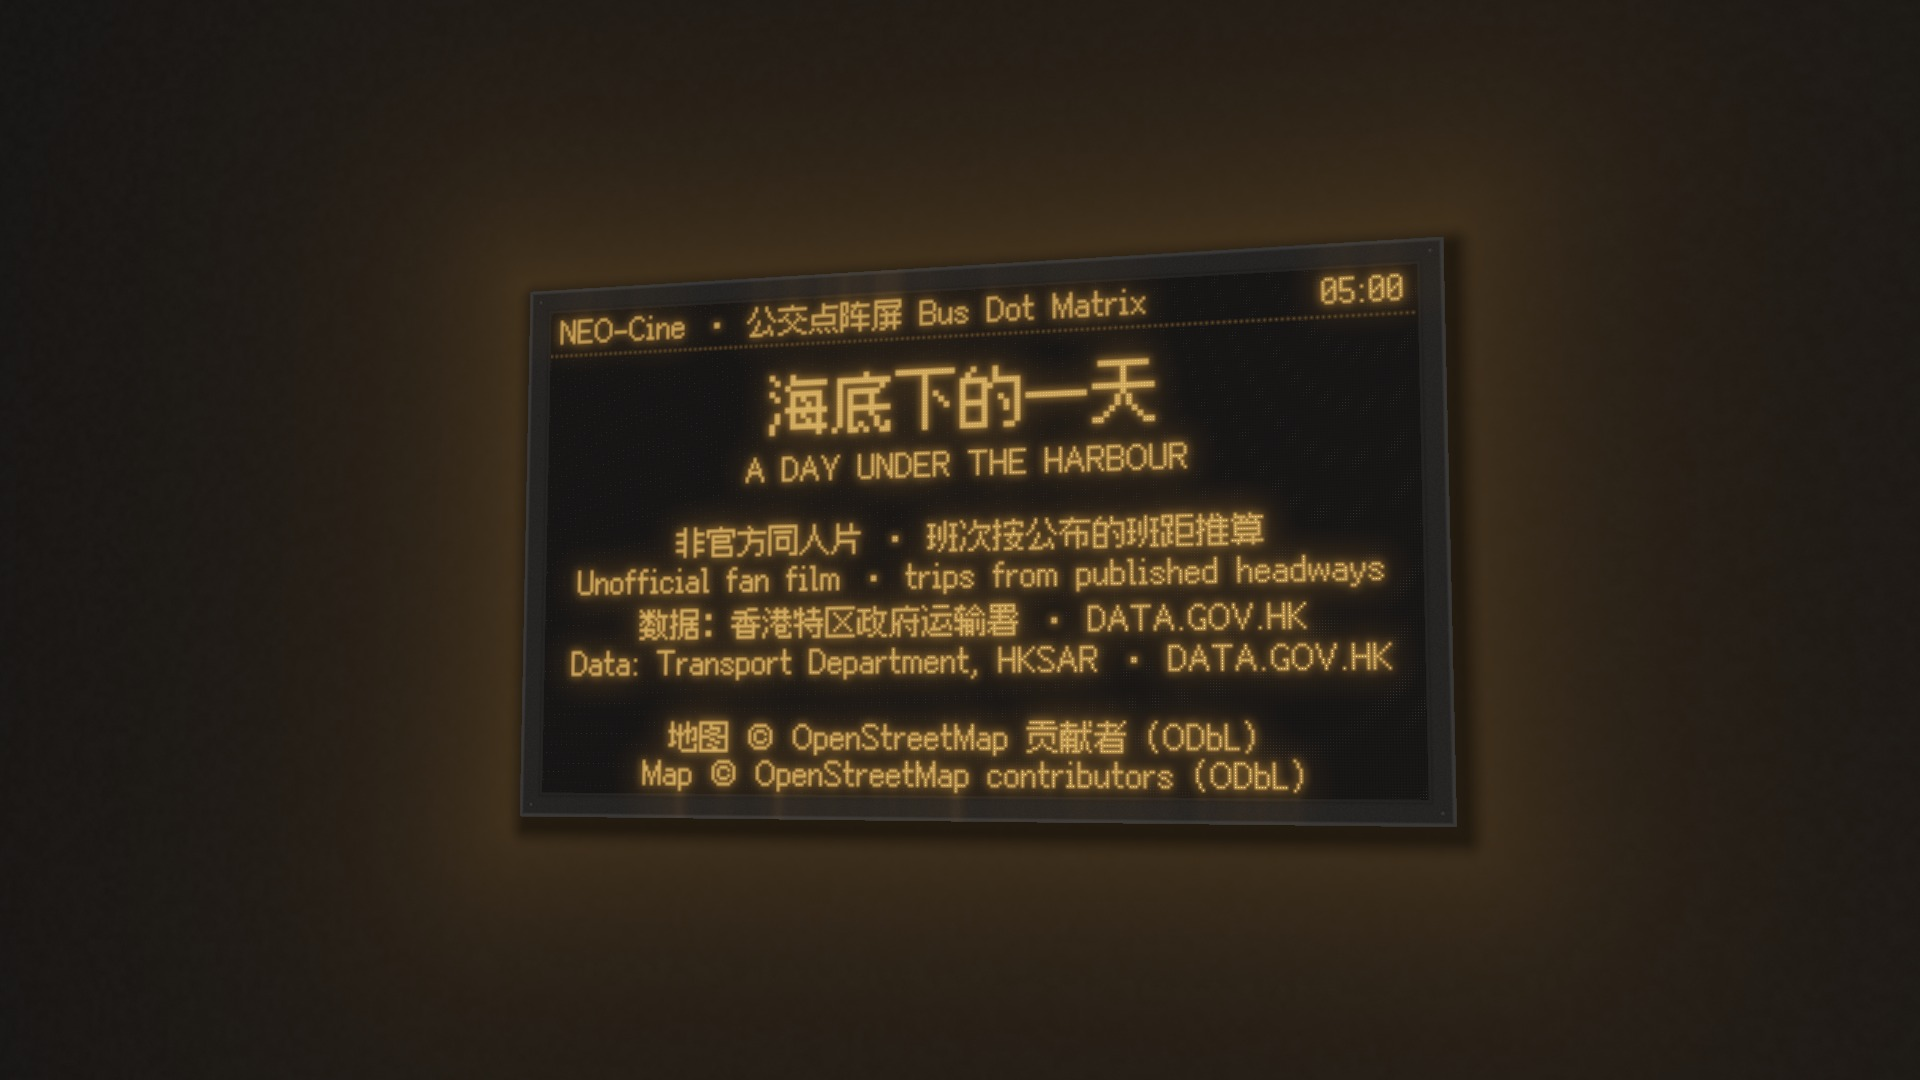
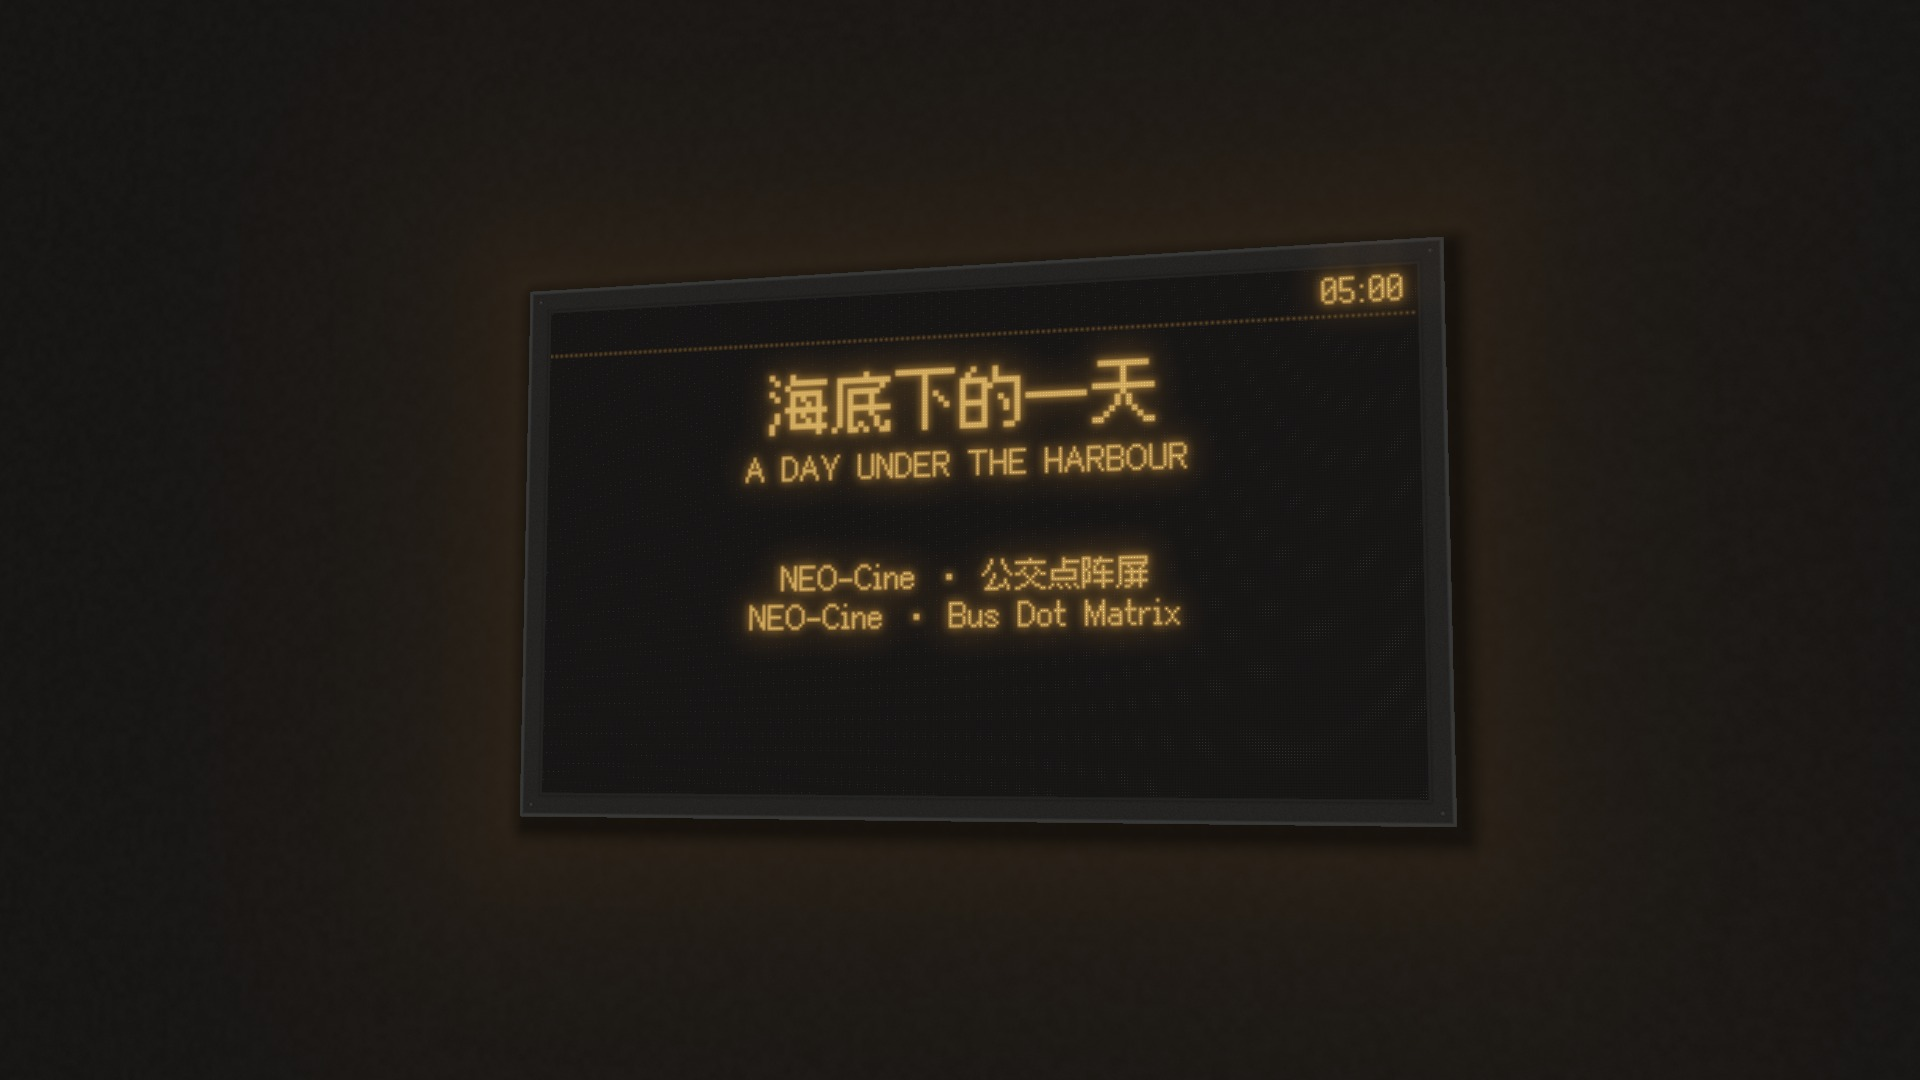
Demos: end cards sign off with NEO-Cine only
Data credits, licences, the fan-film note and notes such as "trains
illustrative" leave the screen and stay in each demo's CREDITS and at
the top of its DEMO.md. Six films rebuilt as new versions (Atlas Scroll
v004, Scroll Map v004, Metro Mosaic v004, Train Graph v005, Bus Dot
Matrix v002, Transit Map v004); Folding City had no on-screen credit.
MAINTAINING.md and the DEMO template now say so; atlas-scroll and
scroll-map builds take RENDER=remote like the others.

Changed region(s): [[0.2812, 0.4583, 0.75, 0.7639], [0.2812, 0.2444, 0.5938, 0.3361]]

diff --git a/styles/metro-mosaic/demo/main.js b/styles/metro-mosaic/demo/main.js
@@ -229,14 +229,11 @@ for (const P of TL.PLAQUES) {
     const b = spot(138, 17, p.w, p.h, { r: 10 });
     hang('title', p, b[0], b[1], P.t, P.read);
   } else if (P.kind === 'credit') {
-    const p = plaque(56, 17, (g, Wc, Hc, px, m) => {
-      const x = m + px * 2, b = [];
-      b.push(line(g, 'credit-fan', '非官方粉丝作品 · Unofficial fan film', F(700, px * 2.6), x, m + px * 4.0));
-      g.fillRect(x, m + px * 5.3, Wc - 2 * x, Math.max(2, px * .08));
-      b.push(line(g, 'credit-osm', '线路、车站与海岸 Lines, stations, coast: © OpenStreetMap contributors, ODbL 1.0', F(700, px * 1.15), x, m + px * 7.3, 'left', { pass: true, maxW: Wc - 2 * x }));
-      b.push(line(g, 'credit-src', '开通日期与里程 Opening dates and lengths: 深圳地铁集团, 深圳市交通运输局, 深圳新闻网 等', F(700, px * 1.15), x, m + px * 9.0, 'left', { pass: true, maxW: Wc - 2 * x }));
-      b.push(line(g, 'credit-dis', '线路颜色与站名是公开信息；与运营方无关，不用其标识 Line colours and station names are public facts; no operator marks', F(700, px * .95), x, m + px * 10.6, 'left', { pass: true, maxW: Wc - 2 * x }));
-      b.push(line(g, 'credit-neo', 'NEO-Cine · 瓷砖地铁图 Metro Mosaic', F(700, px * 1.8), x, m + px * 13.4, 'left'));
+    const p = plaque(38, 10, (g, Wc, Hc, px, m) => {                 // 片尾只署 NEO-Cine；数据署名在 CREDITS 和 DEMO.md
+      const b = [];
+      b.push(line(g, 'credit-neo', 'NEO-Cine', F(900, px * 3.6, FONT_EN), Wc / 2, m + px * 4.4, 'center', { spacing: px * .2 }));
+      g.fillRect(Wc * .22, m + px * 5.5, Wc * .56, Math.max(2, px * .09));
+      b.push(line(g, 'credit-style', '瓷砖地铁图 · Metro Mosaic', F(700, px * 1.6), Wc / 2, m + px * 7.6, 'center', { spacing: px * .1 }));
       return b;
     }, { rnd: mulberry(11), bg: '#1c3260' });
     hang('credit', p, P.at[0], P.at[1], P.t ?? -9, P.read);

diff --git a/styles/bus-dotmatrix/demo/main.js b/styles/bus-dotmatrix/demo/main.js
@@ -179,7 +179,6 @@ function headAt(t) {                                                   // 每拍
 function drawHead(t, T) {
   const [hx, hy, hw] = LAYOUT.head;
   const ck = t >= END.title - .7 ? '05:00' : hhmm(T), cw = tw(ck); put(ck, hx + hw - 4 - cw, 1);
-  if (t >= END.credit + .75) { const sg = 'NEO-Cine · 公交点阵屏 Bus Dot Matrix', m = textMask(sg); B.blit(m, 4, 1, LV.text * .9, [0, 0, 4 + Math.floor((t - END.credit - .75) * 600), 16]); report('sign', sg, 4, 1, 4 + m.w, 13, true); }
   report('clock', ck, hx + hw - 4 - cw, 1, hx + hw - 4, 13, true);
   for (let i = 0; i < NX; i += 2) B.max(i, 16, LV.dim * .5);
   const cur = headAt(t); if (!cur) return;
@@ -225,9 +224,7 @@ function drawTunnels(t, V, r0, r1) {
 // ---------- 片尾：地图关掉，屏上只剩字 ----------
 const ENDL = [
   [26, '海底下的一天', 2, FONT.sc, END.title, false], [56, 'A DAY UNDER THE HARBOUR', 1, FONT.sc, END.title + .25, false],
-  [82, '非官方同人片 · 班次按公布的班距推算', 1, FONT.sc, END.credit, true], [96, 'Unofficial fan film · trips from published headways', 1, FONT.sc, END.credit, true],
-  [112, '数据：香港特区政府运输署 · DATA.GOV.HK', 1, FONT.sc, END.credit + .25, true], [126, 'Data: Transport Department, HKSAR · DATA.GOV.HK', 1, FONT.sc, END.credit + .25, true],
-  [153, '地图 © OpenStreetMap 贡献者（ODbL）', 1, FONT.sc, END.credit + .5, true], [166, 'Map © OpenStreetMap contributors (ODbL)', 1, FONT.sc, END.credit + .5, true],
+  [96, 'NEO-Cine · 公交点阵屏', 1, FONT.sc, END.credit, false], [110, 'NEO-Cine · Bus Dot Matrix', 1, FONT.sc, END.credit, false],   // 片尾只署 NEO-Cine；数据署名在 CREDITS 和 DEMO.md
 ];
 function drawEnd(t) {
   for (const [y, s, sc, fam, t0, pass] of ENDL) {

diff --git a/styles/scroll-map/demo/main.js b/styles/scroll-map/demo/main.js
@@ -256,8 +256,8 @@ window.render = (t) => {
   drawLabels(t); drawTitle(t);
   g.restore();
   drawScroll(xr);
-  const kc = clamp((t - 45.4) / .8);                                                           // 片尾小字：数据署名
-  if (kc > 0) { const fs = 21 * K, txt = '地图数据 © OpenStreetMap contributors'; g.font = `${fs}px WenKai`; g.textAlign = 'center'; g.textBaseline = 'middle'; g.fillStyle = rgba(C.mountGold, .8 * kc); g.fillText(txt, W / 2, H - 78 * K); const tw = g.measureText(txt).width; texts.push({ id: 'credit', text: txt, x0: W / 2 - tw / 2, y0: H - 78 * K - fs * .6, x1: W / 2 + tw / 2, y1: H - 78 * K + fs * .6, pass: true }); }
+  const kc = clamp((t - 45.4) / .8);                                                           // 片尾小字：只署 NEO-Cine（数据署名在 CREDITS 和 DEMO.md）
+  if (kc > 0) { const fs = 21 * K, txt = 'NEO-Cine · 舆图长卷'; g.font = `${fs}px WenKai`; g.textAlign = 'center'; g.textBaseline = 'middle'; g.fillStyle = rgba(C.mountGold, .8 * kc); g.fillText(txt, W / 2, H - 78 * K); const tw = g.measureText(txt).width; texts.push({ id: 'credit', text: txt, x0: W / 2 - tw / 2, y0: H - 78 * K - fs * .6, x1: W / 2 + tw / 2, y1: H - 78 * K + fs * .6, pass: true }); }
 };
 window.TEXTS = (t) => { window.render(t); return texts; };
 window.DUR = DUR;

diff --git a/styles/train-graph/demo/main.js b/styles/train-graph/demo/main.js
@@ -452,7 +452,7 @@ function drawTitleBlock(t) {
   lab('图名', 'Title', y + 32); lab('数据', 'Data', yd + 24);
   cell(0, '列车运行图 · 科隆—法兰克福 · 2026 年 11 月 18 日 星期三', 'Train graph · Köln – Frankfurt · Wednesday 18 November 2026', x + w * .13 + 14, y + 32, 24, 18);
   cell(1, `这一天 ${NTR.all} 条运行线：新线 ${NTR.hsl}，河谷 ${NTR.rhine}`, `${NTR.all} train paths: ${NTR.hsl} high-speed line, ${NTR.rhine} Rhine valley`, x + w * .13 + 14, yd + 24, 19, 15);
-  cell(2, '时刻表 gtfs.de（DELFI e.V.）CC BY 4.0 · 线路 © OpenStreetMap contributors ODbL · 非官方影片', 'Timetable gtfs.de, data DELFI e.V., CC BY 4.0 · Track © OpenStreetMap contributors, ODbL · Unofficial fan film', x + w * .13 + 14, yd + 64, 15, 13, true);
+  cell(2, 'NEO-Cine · 列车运行图', 'NEO-Cine · Train Graph', x + w * .13 + 14, yd + 64, 15, 13, true);
 }
 
 // ---------- 一帧 ----------

diff --git a/styles/transit-map/demo/timeline.js b/styles/transit-map/demo/timeline.js
@@ -156,11 +156,7 @@ function furniture(c, t, view, K2) {
   c.restore();
   endBlock(c, t, K2);
 }
-const END_LINES = [
-  ['广州地铁 1997—2025 · 非官方致敬短片', 'Guangzhou Metro 1997–2025 · Unofficial fan film'],
-  ['列车为示意 · 线网图为自绘示意', 'Trains illustrative · schematic drawn by us'],
-  ['地图数据 © OpenStreetMap 贡献者（ODbL）', 'Map data © OpenStreetMap contributors (ODbL)'],
-  ['改编自 Lemo-Opuscar 的 Transit Map（MIT）', 'Adapted from Lemo-Opuscar’s Transit Map (MIT)'],
+const END_LINES = [                                   // 片尾只署 NEO-Cine；数据署名、示意说明和 MIT 出处在 CREDITS 和 DEMO.md
   ['NEO-Cine · 地铁线路图', 'NEO-Cine · Transit Map'],
 ];
 function endBlock(c, t, K2) {

diff --git a/neo/geo/routes.py b/neo/geo/routes.py
@@ -22,7 +22,7 @@ an origin (x east, y north; the same --origin and --proj as an osm.py file puts 
 Names: n is name:zh, else name; en is name:en. A colour the relation lacks is taken from its route_master; still missing
 stays "". OSM is a map of what exists, with the dates its mappers added (start = start_date, often missing): opening dates
 for a film come from the operator (DIRECTOR.md §13 and the style's facts rule), never from this file alone.
-Data © OpenStreetMap contributors, ODbL 1.0: credit it on screen and in CREDITS. Python standard library only.
+Data © OpenStreetMap contributors, ODbL 1.0: credit it in CREDITS (a library demo keeps it off screen: MAINTAINING.md). Python standard library only.
 """
 import argparse, json, math, os, sys, time
 sys.path.insert(0, os.path.dirname(os.path.abspath(__file__)))

diff --git a/neo/geo/osm.py b/neo/geo/osm.py
@@ -26,7 +26,7 @@ simplified land polygons) and --filter to name the few rivers, lakes or peaks wa
 Dated history (borders, railways, trails by year) comes from OpenHistoricalMap: see ohm.py beside this file.
 
 No boundary lines are fetched: a film that needs borders takes them from a source that fits DIRECTOR.md §13.
-OpenStreetMap data is © OpenStreetMap contributors, ODbL 1.0: credit it on screen and in CREDITS.
+OpenStreetMap data is © OpenStreetMap contributors, ODbL 1.0: credit it in CREDITS (a library demo keeps it off screen: MAINTAINING.md).
 Only the Python standard library is used.
 """
 import argparse, hashlib, json, math, os, sys, time, urllib.parse, urllib.request

diff --git a/styles/bus-dotmatrix/DEMO.md b/styles/bus-dotmatrix/DEMO.md
@@ -27,7 +27,7 @@ Native moves spent: the lamp test (opening), the flip (the header throughout; it
 | 5 | 25–32.5 | all of Hong Kong, 16:00–21:30 | locked fill frame | re-scan at 25 s; the evening swell; the day's count |
 | 6 | 32.5–40.4 | the harbour, then the Cross Harbour Tunnel, 21:30–03:06 | locked fill frame | re-scans at 32.5 and 35.625 s; the board dims; N121 and its trail |
 | 7 | 40.4–44.4 | N121 under the water | push to 15 px following the bus, back to 6 px | the stop bell at 42.5 s; the clock races to 05:00 |
-| 8 | 44.4–52.5 | the end card | pull back to 2.8 px, turned 15°, tilted −5° | the map switches off at 45 s; title 45.6 s; credits 48.1 s |
+| 8 | 44.4–52.5 | the end card | pull back to 2.8 px, turned 15°, tilted −5° | the map switches off at 45 s; title 45.6 s; NEO-Cine 48.1 s |
 
 ## Score structure
 
@@ -50,7 +50,7 @@ Map view: Hong Kong and the harbour, north up, no boundary lines; the widest fra
 
 ## End card
 
-The board alone on a dark wall, the map off: 海底下的一天 at 2×, A DAY UNDER THE HARBOUR, "非官方同人片 · 班次按公布的班距推算 / Unofficial fan film · trips from published headways", the Transport Department and DATA.GOV.HK, © OpenStreetMap contributors (ODbL); the header reads "NEO-Cine · 公交点阵屏 Bus Dot Matrix" and 05:00.
+The board alone on a dark wall, the map off: 海底下的一天 at 2×, A DAY UNDER THE HARBOUR, then NEO-Cine · 公交点阵屏 / NEO-Cine · Bus Dot Matrix; the header reads 05:00. The fan-film note ("trips from published headways"), the Transport Department and DATA.GOV.HK, and © OpenStreetMap contributors (ODbL) are in [`demo/CREDITS`](demo/CREDITS) and at the top of this file, not on screen: a library demo signs off with NEO-Cine only.
 
 ## Build notes
 

diff --git a/styles/atlas-scroll/DEMO.md b/styles/atlas-scroll/DEMO.md
@@ -28,7 +28,7 @@ Native moves spent: colour settling (48 times), the jump (1803), the traveller h
 | 6 | 31–34 | 1869 | Promontory | 560 km, follow the train | the lines meet at 31.0 s; the train passes the second wagon |
 | 7 | 34–42 | to 1912 | the filling map | slow travel at 2,500–2,750 km | a second train on the northern line; 48 states |
 | 8 | 42–49.5 | 1912, 1959 | the whole roll | pull out to 3,950 km | insets stamped at 46.6 and 47.2 s |
-| 9 | 49.5–56 | | title | locked | cartouche, then the data credit at 51 s |
+| 9 | 49.5–56 | | title | locked | cartouche, then the NEO-Cine line at 51 s |
 
 ## Score structure
 
@@ -53,7 +53,7 @@ Map view: North America from 22° to 52° N, Albers equal-area conic (standard p
 
 ## End card
 
-The whole roll on a dark table. Lower left, the compass and two small plates, ALASKA 1959 and HAWAII 1959; lower right, over the Atlantic, the cartouche: FROM · THIRTEEN TO FIFTY · 十三到五十 · 1776 — 1959. Below the roll: Map data: OpenHistoricalMap (CC0) and © OpenStreetMap contributors. No signature.
+The whole roll on a dark table. Lower left, the compass and two small plates, ALASKA 1959 and HAWAII 1959; lower right, over the Atlantic, the cartouche: FROM · THIRTEEN TO FIFTY · 十三到五十 · 1776 — 1959. Below the roll, one small line: NEO-Cine · Atlas Scroll. The data credits and licences are in [`demo/CREDITS`](demo/CREDITS) and at the top of this file, not on screen: a library demo signs off with NEO-Cine only.
 
 ## Build notes
 

diff --git a/styles/bus-dotmatrix/DEMO.zh-CN.md b/styles/bus-dotmatrix/DEMO.zh-CN.md
@@ -29,7 +29,7 @@
 | 5 | 25–32.5 | 全港，16:00–21:30 | 锁定满屏 | 25 秒重扫；晚高峰；全天班次数 |
 | 6 | 32.5–40.4 | 维港，然后海底隧道，21:30–03:06 | 锁定满屏 | 32.5 和 35.625 秒重扫；屏调暗；N121 和它的尾巴 |
 | 7 | 40.4–44.4 | 水下的 N121 | 跟着车推到 15 px，再回到 6 px | 42.5 秒下车铃；钟飞转到 05:00 |
-| 8 | 44.4–52.5 | 片尾 | 拉远到 2.8 px，转 15°，俯 −5° | 45 秒地图关掉；45.6 秒片名；48.1 秒署名 |
+| 8 | 44.4–52.5 | 片尾 | 拉远到 2.8 px，转 15°，俯 −5° | 45 秒地图关掉；45.6 秒片名；48.1 秒 NEO-Cine |
 
 ## 配乐结构
 
@@ -52,7 +52,7 @@
 
 ## 落版
 
-暗墙上只有这块屏，地图关掉：2 倍大的"海底下的一天"，A DAY UNDER THE HARBOUR，"非官方同人片 · 班次按公布的班距推算 / Unofficial fan film · trips from published headways"，运输署与 DATA.GOV.HK，© OpenStreetMap 贡献者（ODbL）；屏头是"NEO-Cine · 公交点阵屏 Bus Dot Matrix"和 05:00。
+暗墙上只有这块屏，地图关掉：2 倍大的“海底下的一天”，A DAY UNDER THE HARBOUR，然后是 NEO-Cine · 公交点阵屏 / NEO-Cine · Bus Dot Matrix；屏头是 05:00。非官方同人片的说明（班次按公布的班距推算）、运输署与 DATA.GOV.HK、© OpenStreetMap 贡献者（ODbL）写在 [`demo/CREDITS`](demo/CREDITS) 和本文开头，不上画面：本库的示范片片尾只署 NEO-Cine。
 
 ## 构建笔记
 

diff --git a/styles/transit-map/DEMO.md b/styles/transit-map/DEMO.md
@@ -59,7 +59,7 @@ Mix (`mix.py`): melody, pad, effects and a short bright room reverb, each bus pe
 
 ## End card
 
-Printed in the sheet's right margin in the final wide view, beside the whole network: 江与环 / The River and the Ring; 广州地铁 1997—2025 · 非官方致敬短片 / Guangzhou Metro 1997–2025 · Unofficial fan film; 列车为示意 · 线网图为自绘示意 / Trains illustrative · schematic drawn by us; 地图数据 © OpenStreetMap 贡献者（ODbL）/ Map data © OpenStreetMap contributors (ODbL); 改编自 Lemo-Opuscar 的 Transit Map（MIT）/ Adapted from Lemo-Opuscar's Transit Map (MIT); NEO-Cine · 地铁线路图 / NEO-Cine · Transit Map. Held 5.3 s. The NEO-Cine sign-off belongs to this library's demo only; a user's film carries no NEO-Cine credit and no copy of this card.
+Printed in the sheet's right margin in the final wide view, beside the whole network: 江与环 / The River and the Ring; NEO-Cine · 地铁线路图 / NEO-Cine · Transit Map. Held 5.3 s. The fan-film note, "trains illustrative, schematic drawn by us", the OpenStreetMap credit (ODbL) and "adapted from Lemo-Opuscar's Transit Map (MIT)" are in [`demo/CREDITS`](demo/CREDITS) and at the top of this file, not on screen: a library demo signs off with NEO-Cine only. The NEO-Cine sign-off belongs to this library's demo only; a user's film carries no NEO-Cine credit and no copy of this card.
 
 ## Build notes
 
